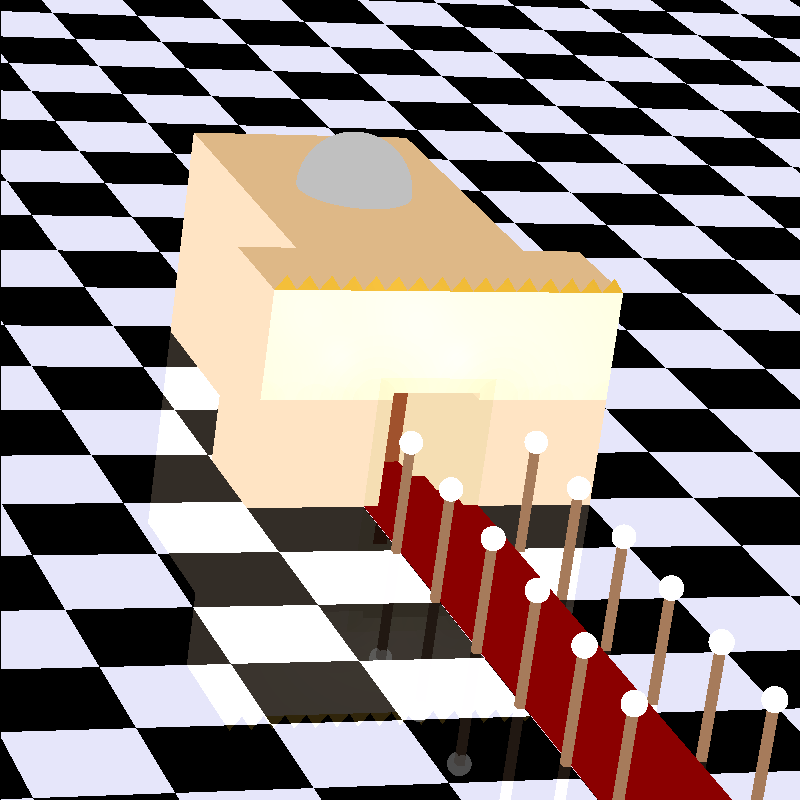
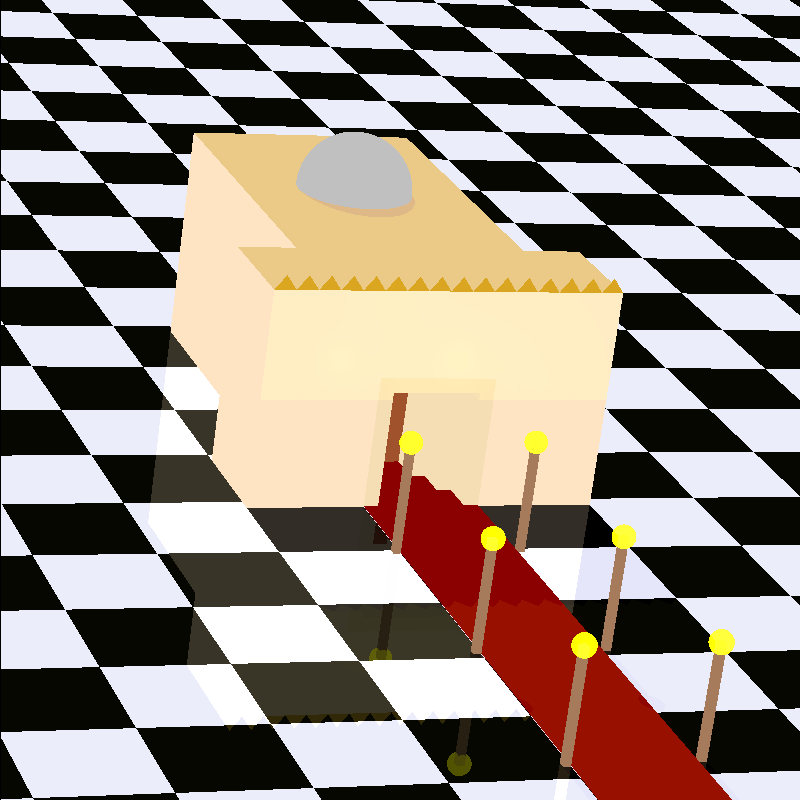
just try

diff --git a/src/unittests/specialtest.java b/src/unittests/specialtest.java
@@ -1557,10 +1557,10 @@ public class specialtest {
 				new Triangle(pnts[529], pnts[530], pnts[470]).setEmmission(color).setMaterial(mat) //
 		);
 
-		scene.lights.add(new PointLight(new Color(500, 500, 500), new Point3D(100, 0, -100)).setBeamsNum(400).setRadius(20) //
+		scene.lights.add(new PointLight(new Color(500, 500, 500), new Point3D(100, 0, -100))//.setBeamsNum(400).setRadius(20) //
 
 
-				.setKq(0.000001).setRadius(20).setBeamsNum(400) );
+      	.setKq(0.000001));//.setRadius(20).setBeamsNum(400) );
 
 		boolean toOrder = false;
 		
@@ -1568,7 +1568,7 @@ public class specialtest {
 		Render render = new Render() //
 				.setCam(camera) //
 				.setImageWriter(imageWriter) //
-				.setRayTracer(new RayTracerBasic(scene).accelerate(toOrder)) //
+				.setRayTracer(new RayTracerBasic(scene))//.accelerate(toOrder)) //
 				.setMultithreading(3).setDebugPrint();
 		render.renderImage();
 		render.printGrid(50, new Color(java.awt.Color.YELLOW));
